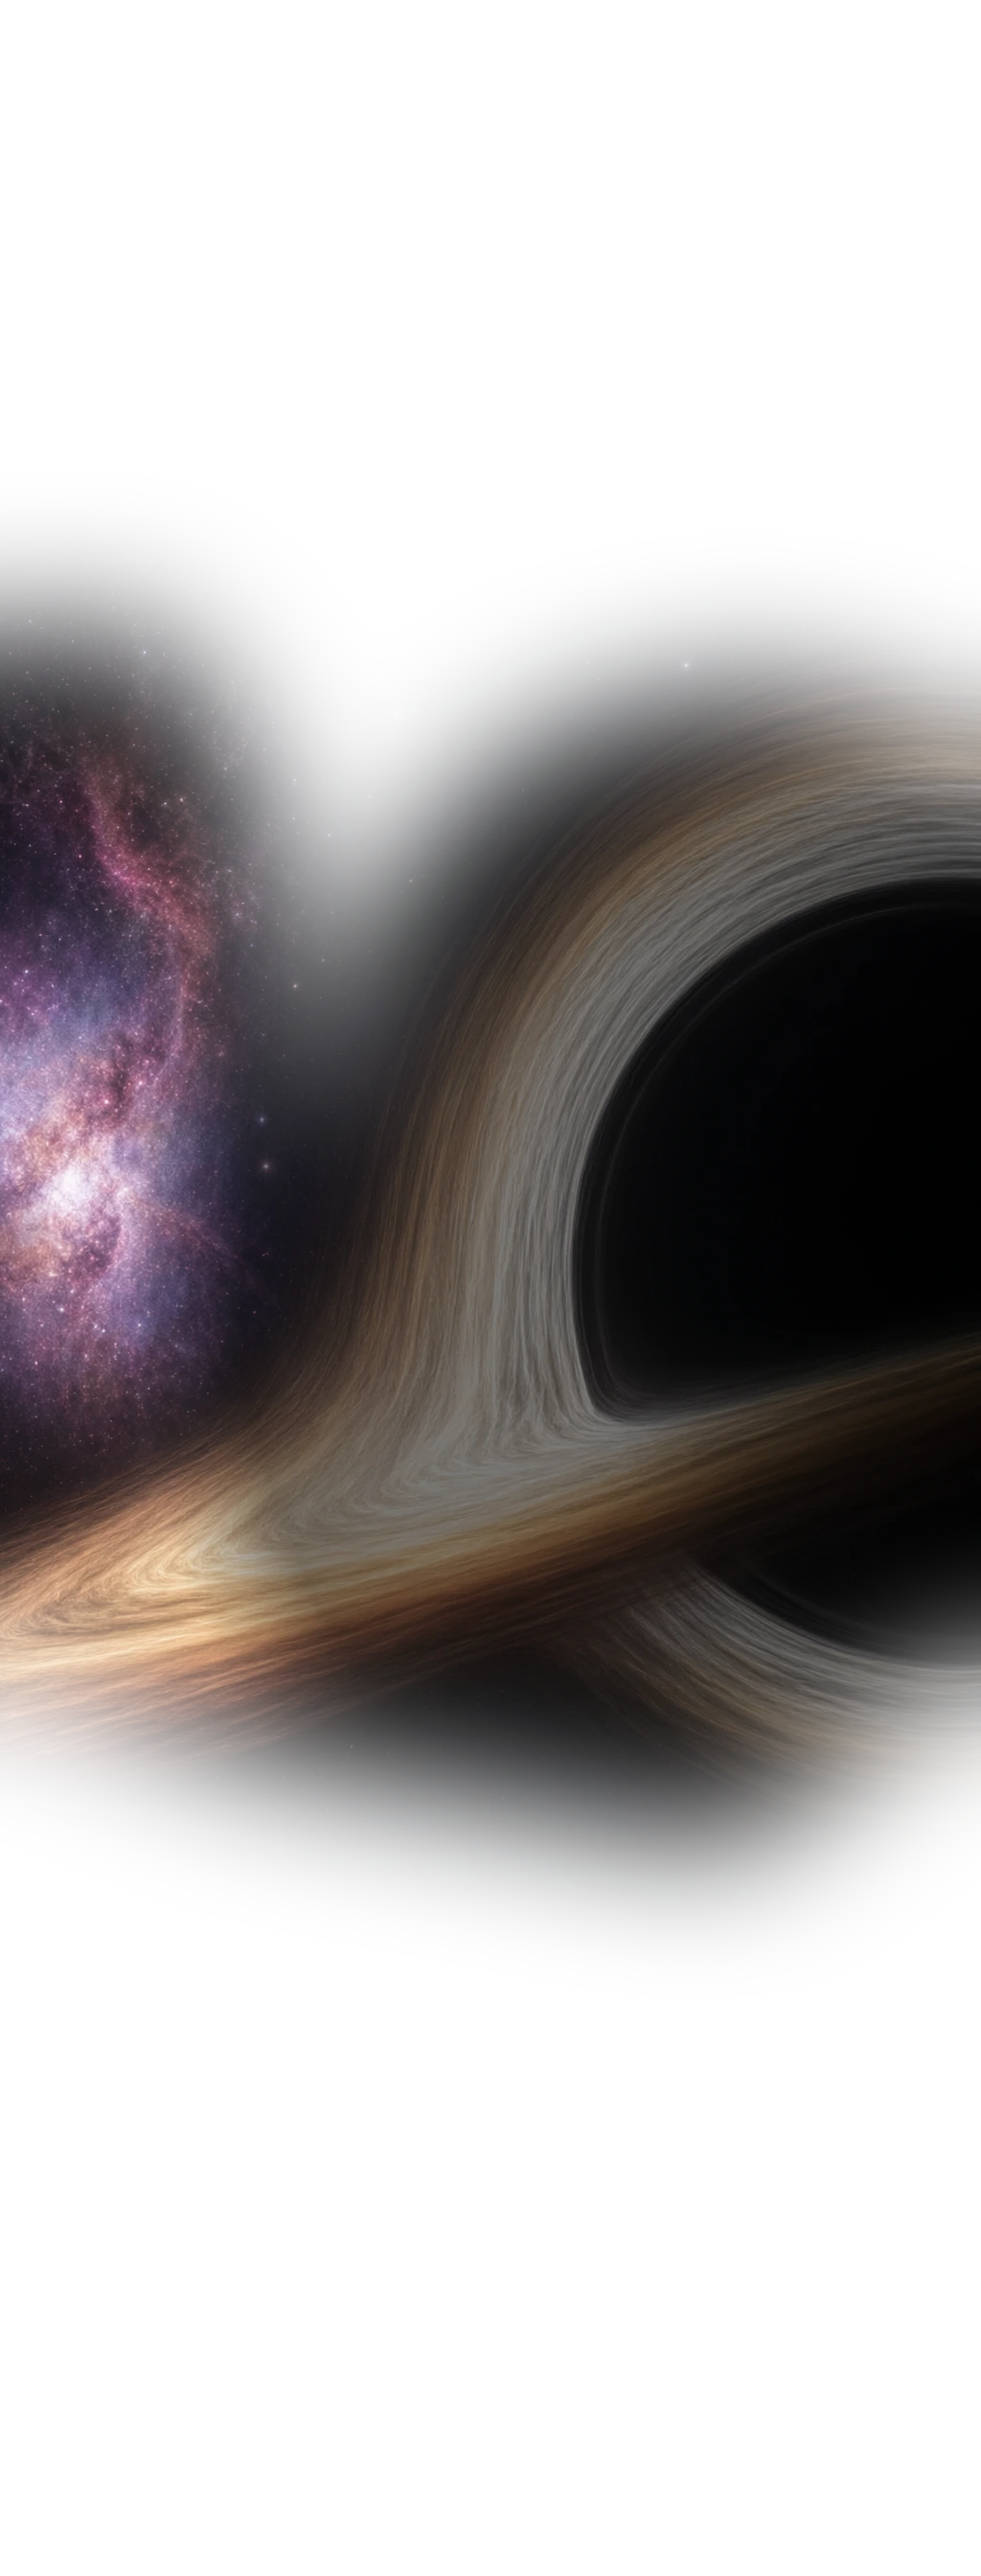
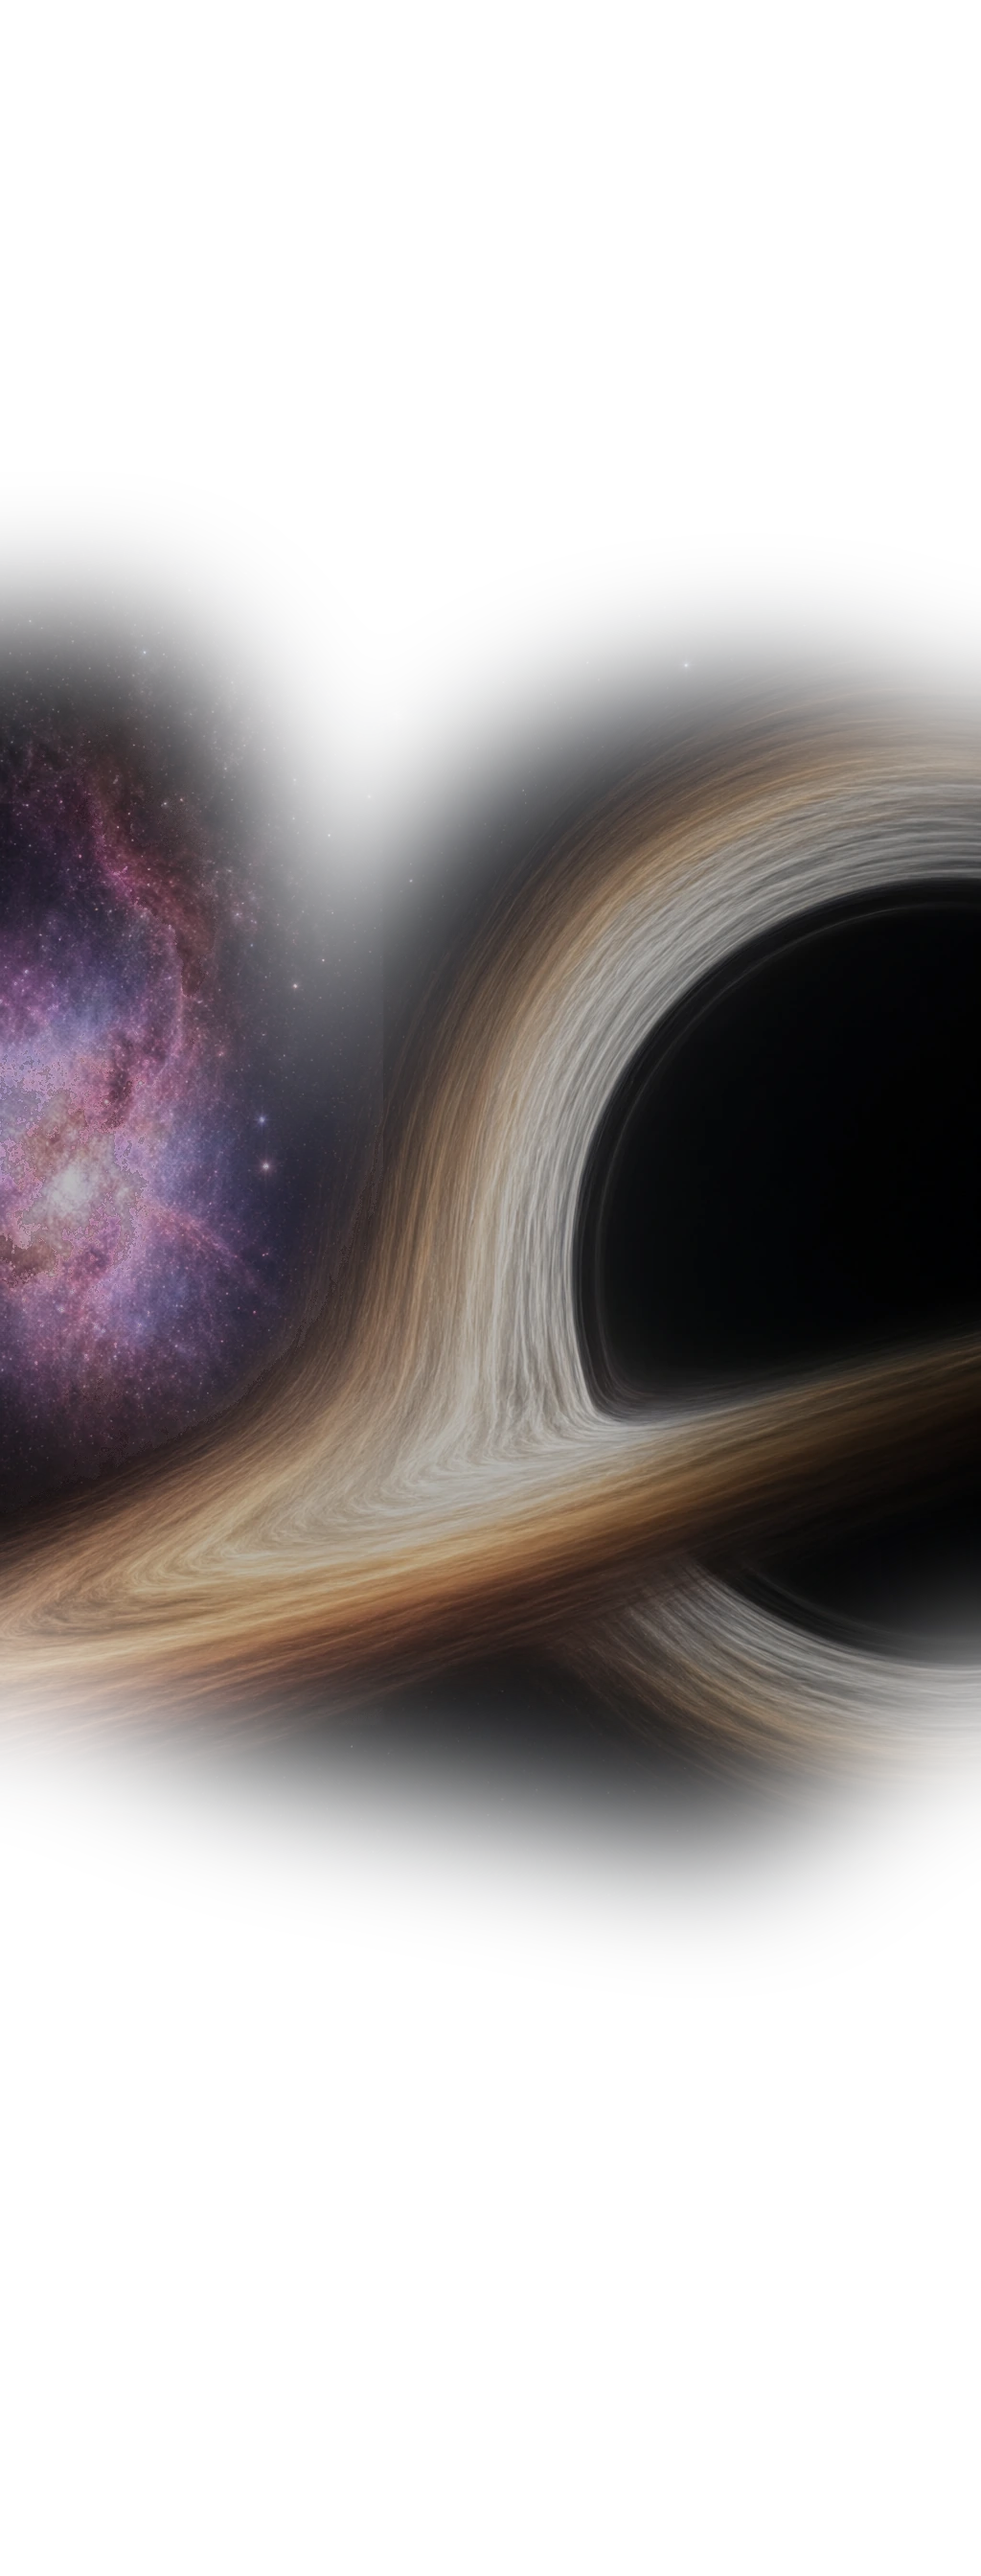
Tune stage1 black hole to 25 percent dim and fixed layer

Changed region(s): [[0.0, 0.2812, 1.0, 0.6875], [0.0, 0.5625, 0.25, 0.6562], [0.0938, 0.3125, 0.2188, 0.375]]

diff --git a/game3.js b/game3.js
@@ -1323,7 +1323,7 @@ function drawLoopLayer(img,scroll,alpha,fitWidth,mirror,blend){
 }
 function paintStageBg(main,edge,offsetY){
   drawLoopLayer(main,bgScroll+(offsetY||0),1,false,false);
-  if(stage===0&&BG1_BH&&BG1_BH.complete&&BG1_BH.naturalWidth) drawLoopLayer(BG1_BH,bgScroll+(offsetY||0),1,false,false);
+  if(stage===0&&BG1_BH&&BG1_BH.complete&&BG1_BH.naturalWidth) drawLoopLayer(BG1_BH,0,1,false,false);
   if(edge) drawLoopLayer(edge,bgEdgeScroll+(offsetY||0)*1.35,([0.90,0.82,0.72,0.50][stage]||0.8),true,true,['screen','soft-light','overlay','soft-light'][stage]||'source-over');
 }
 function drawBgDust(){
